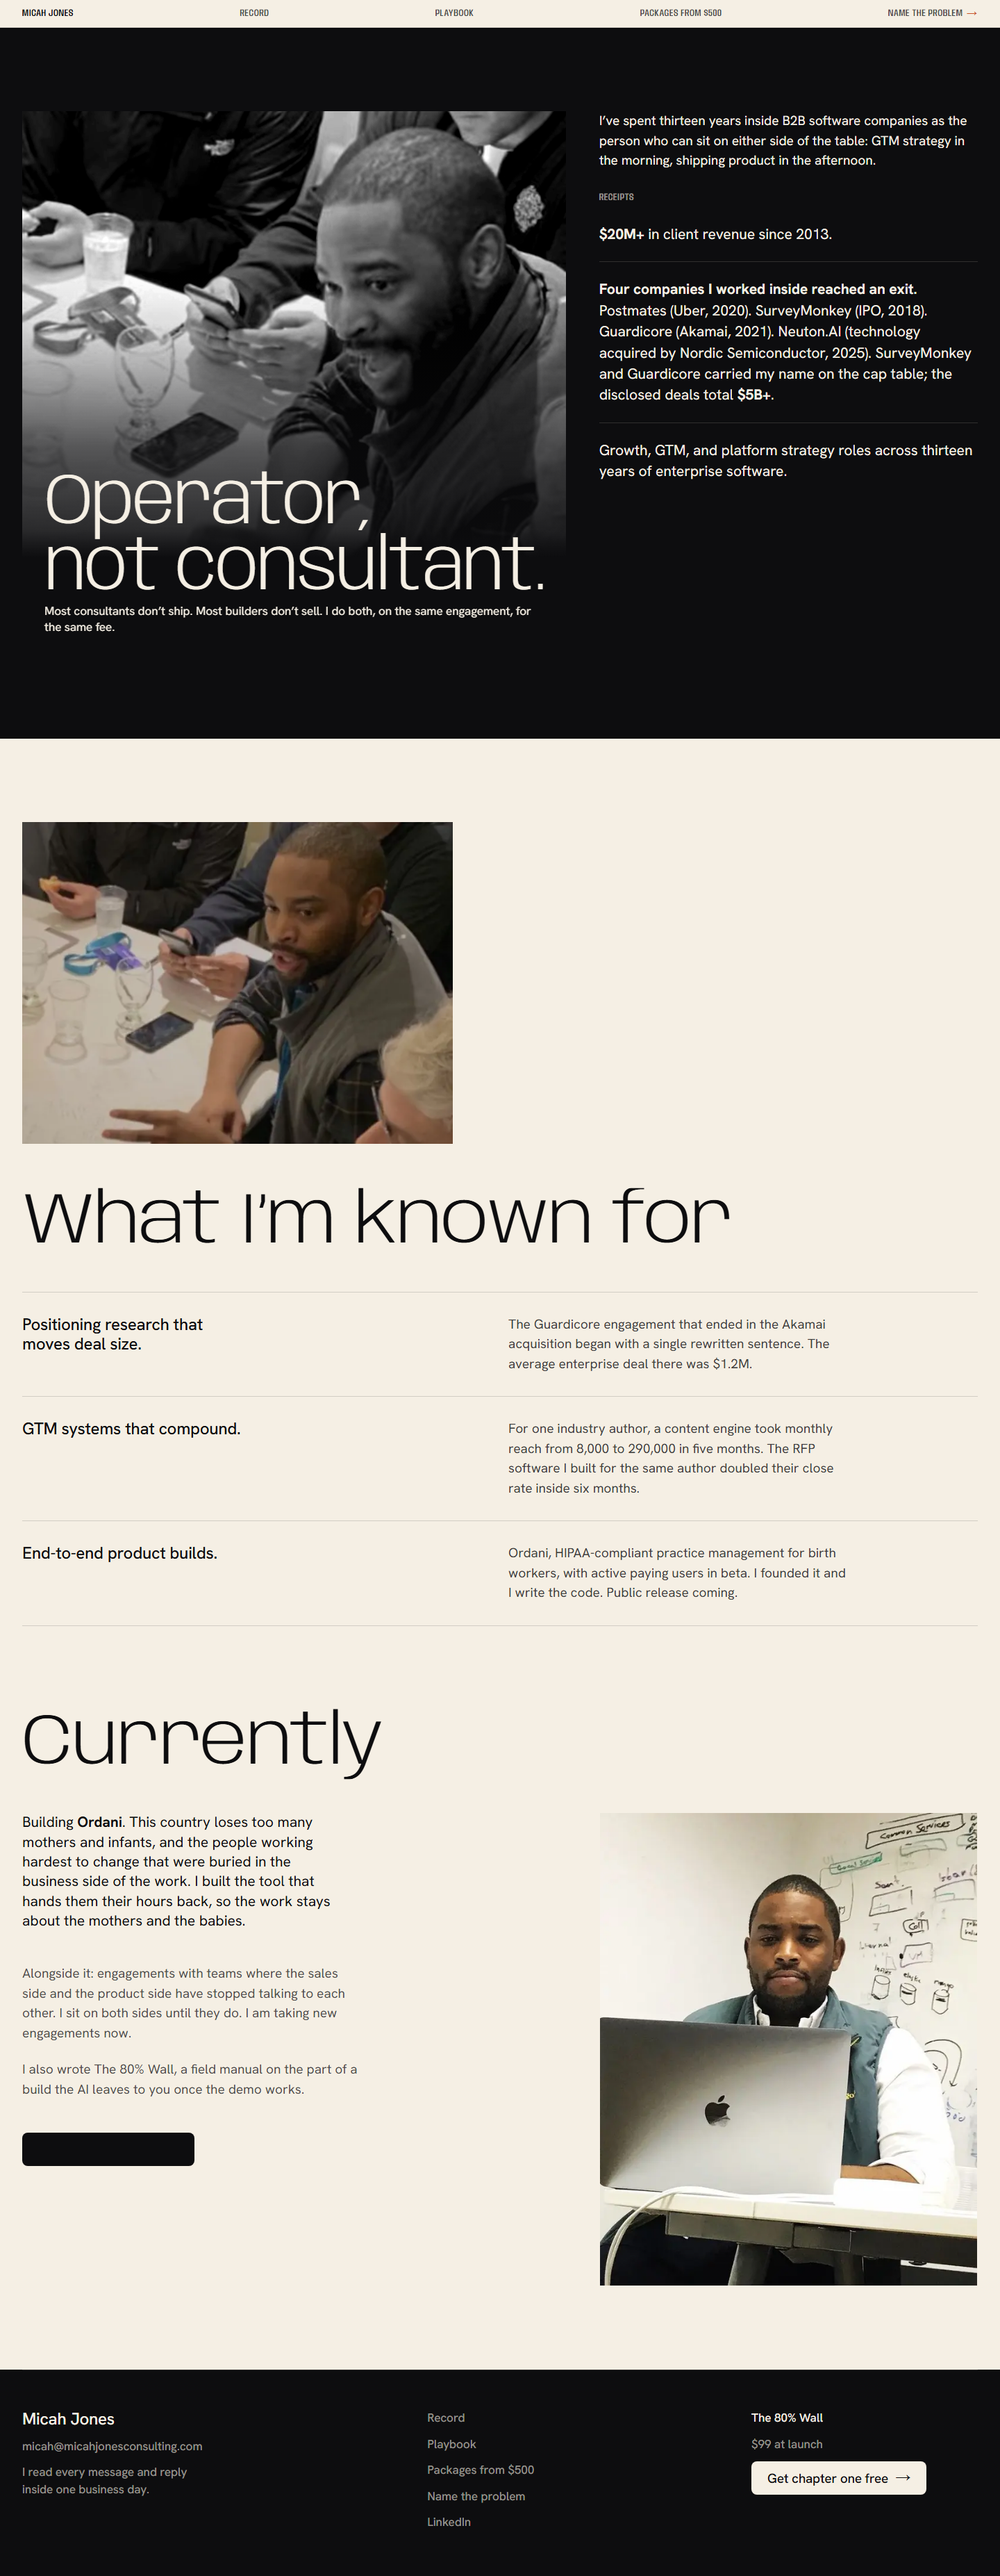
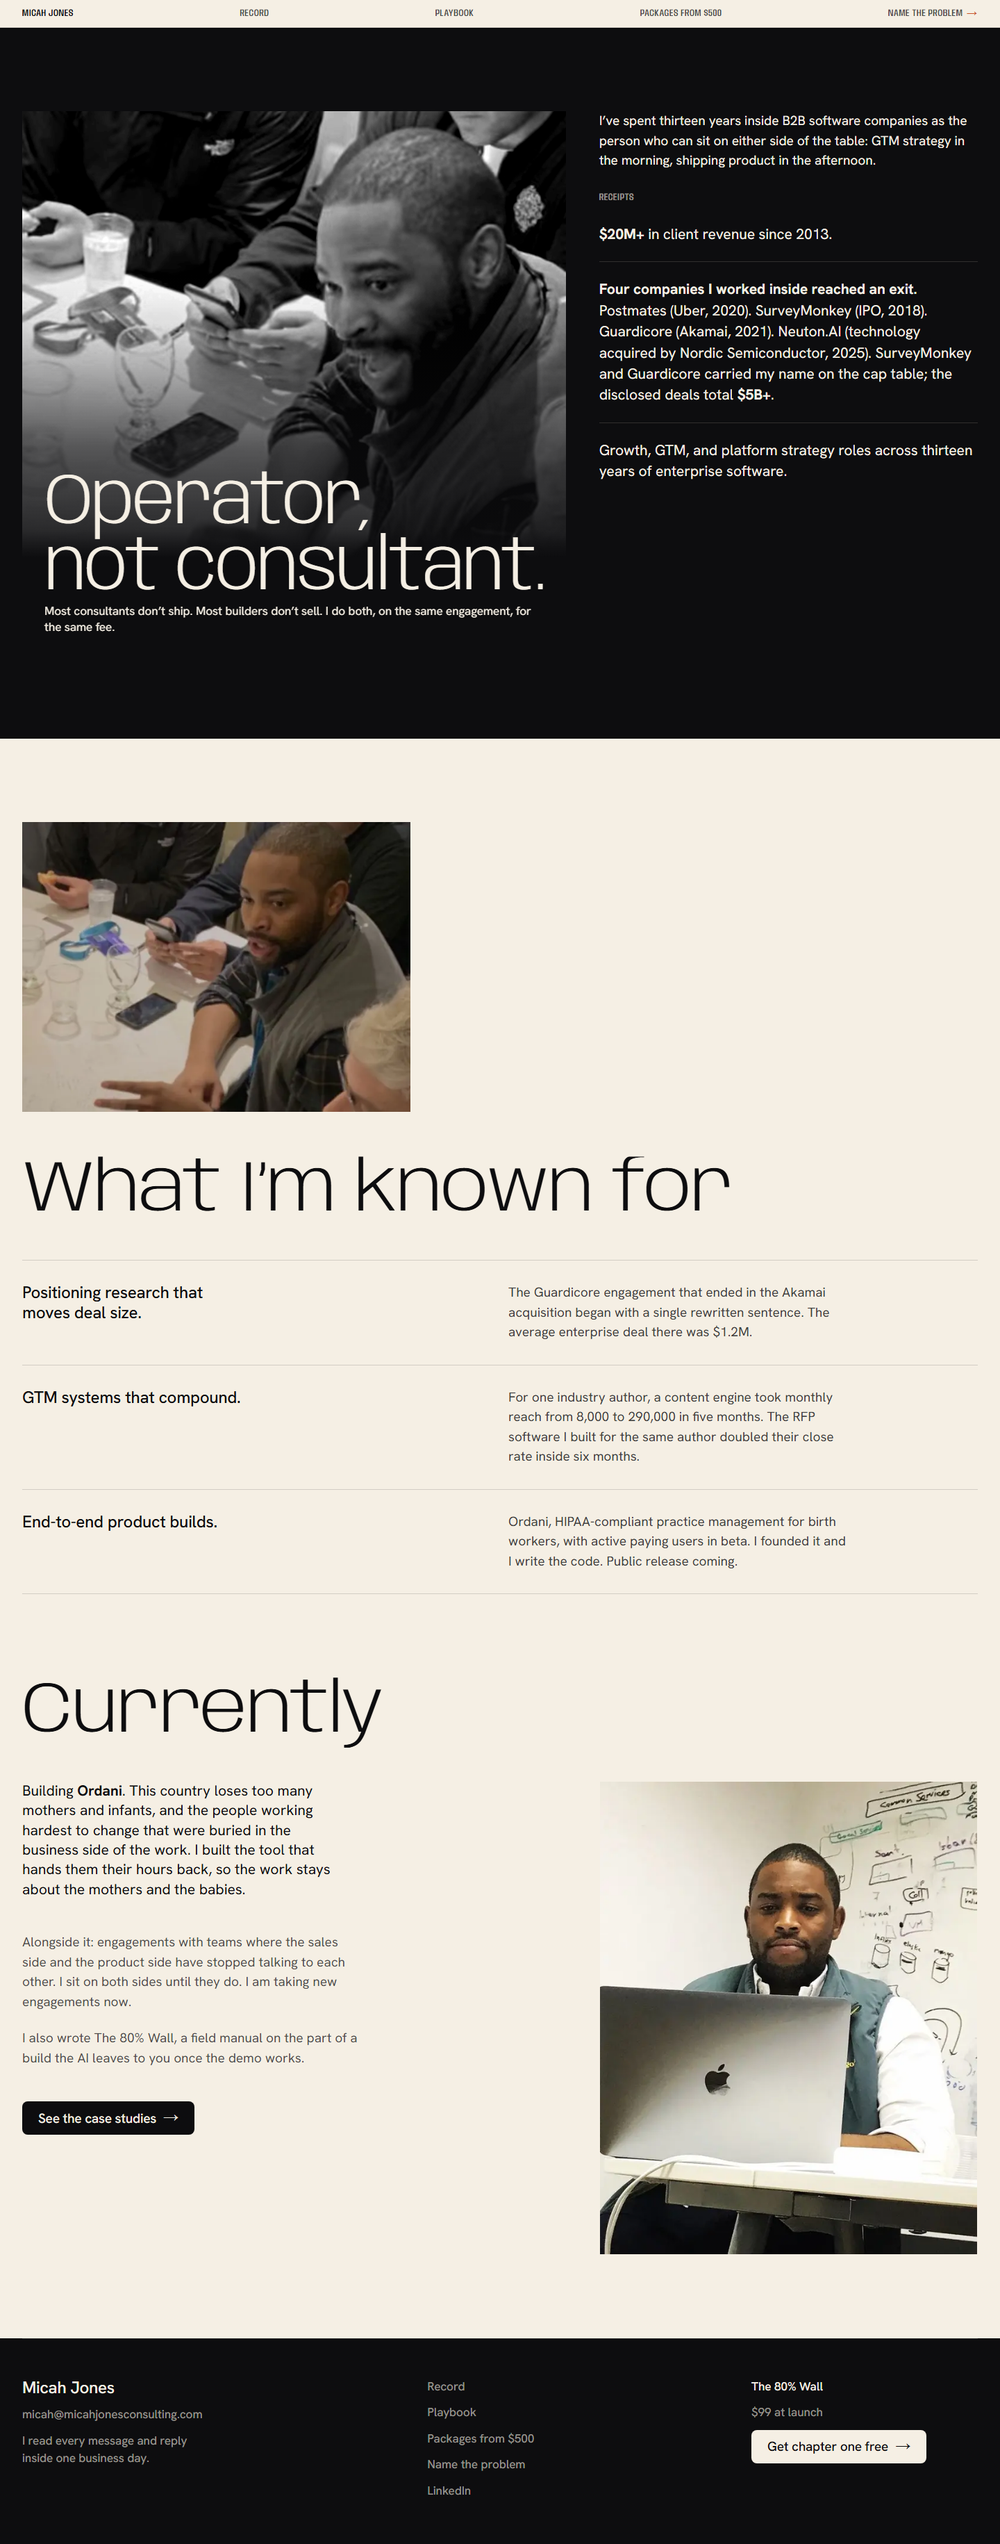
Pass-101: §18's three rules carried onto the ported pages
The recomposition commit put Rules A, B and C on the home and gave the other
group the chip. This finishes the job on the pages themselves.

RULE C, the invisible chip (a defect this pass introduced). `#rl-root a {
color: ... }` out-specifies a bare `.rl-chip`, so the moment the block moved
onto the chip itself, /about's "See the case studies" rendered espresso type on
an espresso ground — a black slab with no label. Measured across seven routes:
9 chips on the home, 2 on /about, 1 on /work, 4 on /playbook, 5 on /packages,
1 on /call, 1 on a case study; ZERO now paint their own colour as their
ground. The chip rules take `#rl-root` so they out-specify the anchor rule.

RULE A on /playbook. The dashed 1px frame around the book cover was still
there — the last surface carrying it. Deleted, with its 16px of padding; the
box keeps the 4:5 crop and an 8px radius.

RULE B on /playbook. The block ran the reading column across cols 1-8 with the
rail pinned in cols 10-12: 15px notes at x = 1100, in a 286px lane, with a dead
column between them and what they annotate. The two lanes swap. The marginalia
take cols 1-5 — a book's own left margin, beside the text — and the reading
column opens on the COLUMN-6 SEAM at x = 615, the same line the home's
how-I-work sentences, receipts' captions, objections and manual copy open on.
Notes go 15px -> 17px, the ledger's own reading size.
  COST, measured and reported: the page goes 14,096px -> 15,787px at 1440,
[…]

diff --git a/app/room-and-ledger.css b/app/room-and-ledger.css
@@ -275,6 +275,7 @@
  * /packages, /playbook, /work, /about and /call keeps its element tree; the
  * block simply moves onto .rl-chip and the two children become inline runs.
  * On these pages the ground is bone, so the chip is espresso-filled. */
+#rl-root .rl-chip,
 .rl-chip {
   box-sizing: border-box;
   display: inline-flex;
@@ -324,6 +325,7 @@
   line-height: 1;
 }
 /* the quiet member of a pair keeps the SHAPE and gives up the fill */
+#rl-root .rl-chip.quiet,
 .rl-chip.quiet {
   background: none;
   color: var(--ink);
@@ -336,10 +338,10 @@
   display: inline-block;
   transition: transform 200ms var(--e);
 }
-.rl-chip:hover,
-.rl-chip:focus-visible,
-a:hover > .rl-chip,
-a:focus-visible > .rl-chip {
+#rl-root .rl-chip:hover,
+#rl-root .rl-chip:focus-visible,
+#rl-root a:hover > .rl-chip,
+#rl-root a:focus-visible > .rl-chip {
   background: var(--color-rl-copper);
   border-color: var(--color-rl-copper);
   color: var(--color-rl-bone);
@@ -612,6 +614,7 @@ html.rl-js .rl-bar.rl-in {
  * this pass does not open it. So the chip is rebuilt on that shape: the button
  * is the label block and its last child becomes the copper square. Same
  * geometry as .rl-chip, no logic changed, no prop added. */
+#rl-root .rl-buy,
 .rl-buy {
   box-sizing: border-box;
   display: flex;
@@ -754,6 +757,12 @@ html.rl-js .rl-bar.rl-in {
  *    /work runs this over EVERY case study (brief §3).
  * ============================================================ */
 
+/* §18 Rule B: --lane is the width of columns 1-5 of the page's own grid, the
+ * same definition app/room.css gives the home, so both groups open their
+ * right-hand lanes on one vertical line. */
+#rl-root {
+  --lane: calc((100% - 11 * var(--gap)) / 12 * 5 + 4 * var(--gap));
+}
 .rl-index {
   display: block;
   list-style: none;
@@ -765,11 +774,13 @@ html.rl-js .rl-bar.rl-in {
   position: relative;
   box-sizing: border-box;
   display: grid;
-  grid-template-columns: minmax(0, 560px) minmax(0, 1fr) 40px;
-  column-gap: 32px;
+  /* §18: name in cols 1-5, caption from the column-6 seam, the arrow in a
+     32px cell flush right — the home's receipts row, on this group's names. */
+  grid-template-columns: minmax(0, var(--lane)) minmax(0, 1fr) 32px;
+  column-gap: var(--gap);
   align-items: baseline;
-  min-height: 84px;
-  padding: 26px 0;
+  min-height: 72px;
+  padding: 22px 0;
   /* v5 verify 3: the rows carried bottom borders only, so the ledger's first
    * row floated. Every row opens on a rule and the ledger closes on one. The
    * rule is the row's TOP border on purpose: that is the edge §16.3-4 draws
@@ -809,7 +820,8 @@ html.rl-js .rl-bar.rl-in {
 .rl-prf .ar,
 .rl-prfx .ar {
   grid-column: 3;
-  justify-self: end;
+  justify-self: stretch;
+  text-align: right;
   color: var(--ink);
   font-family: var(--font-rl-display);
   font-size: 19px;
@@ -1084,11 +1096,19 @@ a.rl-prfx:focus-visible .who {
 /* the frame's BORDER BOX is the column and the frame is 4:5; the cover fills
  * its content box. The dash is ink at 40%, which is the step the hairline
  * needs against paper (round 9's finding). */
+/* §18 RULE A: "the border goes on the list, never on the picture. No frame
+ * around any photograph or cover." The dashed 1px frame and its 16px of
+ * padding are deleted here exactly as they are on the home — /playbook runs
+ * the same manual composition and it was the last surface still carrying the
+ * frame. The .frame element stays as the cover's 4:5 box; it simply stops
+ * drawing a border around a picture. */
 .rl-manual .art .frame {
   box-sizing: border-box;
   aspect-ratio: 4 / 5;
-  border: 1px dashed color-mix(in oklab, var(--ink) 40%, transparent);
-  padding: 16px;
+  border: 0;
+  padding: 0;
+  border-radius: 8px;
+  overflow: hidden;
   background: none;
 }
 .rl-manual .art .frame .cov {
@@ -1452,9 +1472,35 @@ a.rl-prfx:focus-visible .who {
 }
 /* A photograph is evidence, not wallpaper: at 1440 a full-content-width frame
  * is 1376px of one Instagram crop and the page stops being a ledger. The
- * exhibit takes the reading half. */
+ * exhibit takes cols 1-5 — the same lane the receipts' names take — and its
+ * CAPTION opens on the column-6 seam beside it (§18 Rule B), which is what
+ * turns ~740px of empty bone to the picture's right into the page's own
+ * grid line rather than a hole. Rule A holds: no border on the picture. */
 .rl-figure--half {
-  max-width: 620px;
+  display: grid;
+  grid-template-columns: repeat(12, minmax(0, 1fr));
+  column-gap: var(--gap);
+  align-items: end;
+  max-width: none;
+}
+.rl-figure--half > img,
+.rl-figure--half > picture,
+.rl-figure--half > span {
+  grid-column: 1 / 6;
+}
+.rl-figure--half > figcaption {
+  grid-column: 6 / 13;
+  padding-top: 0;
+  padding-bottom: 4px;
+}
+@media (max-width: 899px) {
+  .rl-figure--half {
+    display: block;
+  }
+  .rl-figure--half > figcaption {
+    padding-top: 12px;
+    padding-bottom: 0;
+  }
 }
 
 /* ============================================================
@@ -1540,16 +1586,27 @@ html.rl-js [data-rl="media"].rl-in {
   gap: 48px;
   padding-top: var(--s);
 }
+/* §18 RULE B — ONE SEAM. The block used to run the reading column across cols
+ * 1-8 (x 32 to ~1150) with the rail pinned in cols 10-12, which put its notes
+ * at x = 1100 in a 286px lane with a dead column between them and the thing
+ * they annotate. The critique read them as "near-illegible and float far from
+ * what they annotate", and the page as one that "never settles into one grid".
+ *   The two lanes swap. The marginalia take cols 1-5 — a book's own left
+ * margin, beside what they annotate — and the reading column opens on the
+ * COLUMN-6 SEAM, the same vertical line the home's how-I-work sentences, the
+ * receipts' captions, the objections list and the manual's copy all open on.
+ * The page does not get taller doing it: .rl-body is capped at 46ch, so the
+ * measure was already shorter than the lane that held it. */
 .rl-block > .main {
-  grid-column: 1 / 9;
+  grid-column: 6 / 13;
   min-width: 0;
 }
 .rl-block > .rail {
-  grid-column: 10 / 13;
+  grid-column: 1 / 6;
   min-width: 0;
   display: flex;
   flex-direction: column;
-  gap: 20px;
+  gap: 24px;
   align-items: flex-start;
 }
 @media (max-width: 899px) {
@@ -1563,10 +1620,12 @@ html.rl-js [data-rl="media"].rl-in {
 }
 
 /* the marginalia note: a hairline, a label, and the note under it. */
+/* 15px in a 286px lane at the far right was the smallest reading size on the
+ * site. In the left margin it takes the ledger's own 17px. */
 .rl-note {
   border-top: 1px solid var(--hair);
   padding-top: 14px;
-  font-size: 15px;
+  font-size: 17px;
   line-height: 1.5;
   color: var(--ink-72);
   max-width: 34ch;

diff --git a/app/(room)/work/page.tsx b/app/(room)/work/page.tsx
@@ -136,6 +136,18 @@ export default async function WorkIndexPage() {
         </a>{" "}
         at $500, $2,500 and $7,500.
       </p>
+      {/* PASS-101 SS18: the page closed on a hanging paragraph with nothing to
+          press. Every other section on the system ends in ONE chip (Rule C),
+          and this is the page the home's primary CTA lands on. The label is
+          the bar's and the foot's own live string; nothing is written here. */}
+      <div className="rl-chips rl-air-s" data-rl="rise">
+        <a className="rl-chip" href="/call">
+          <span className="t">Name the problem</span>
+          <span className="a" aria-hidden="true">
+            <span>&#8594;</span>
+          </span>
+        </a>
+      </div>
     </section>
   );
 }
